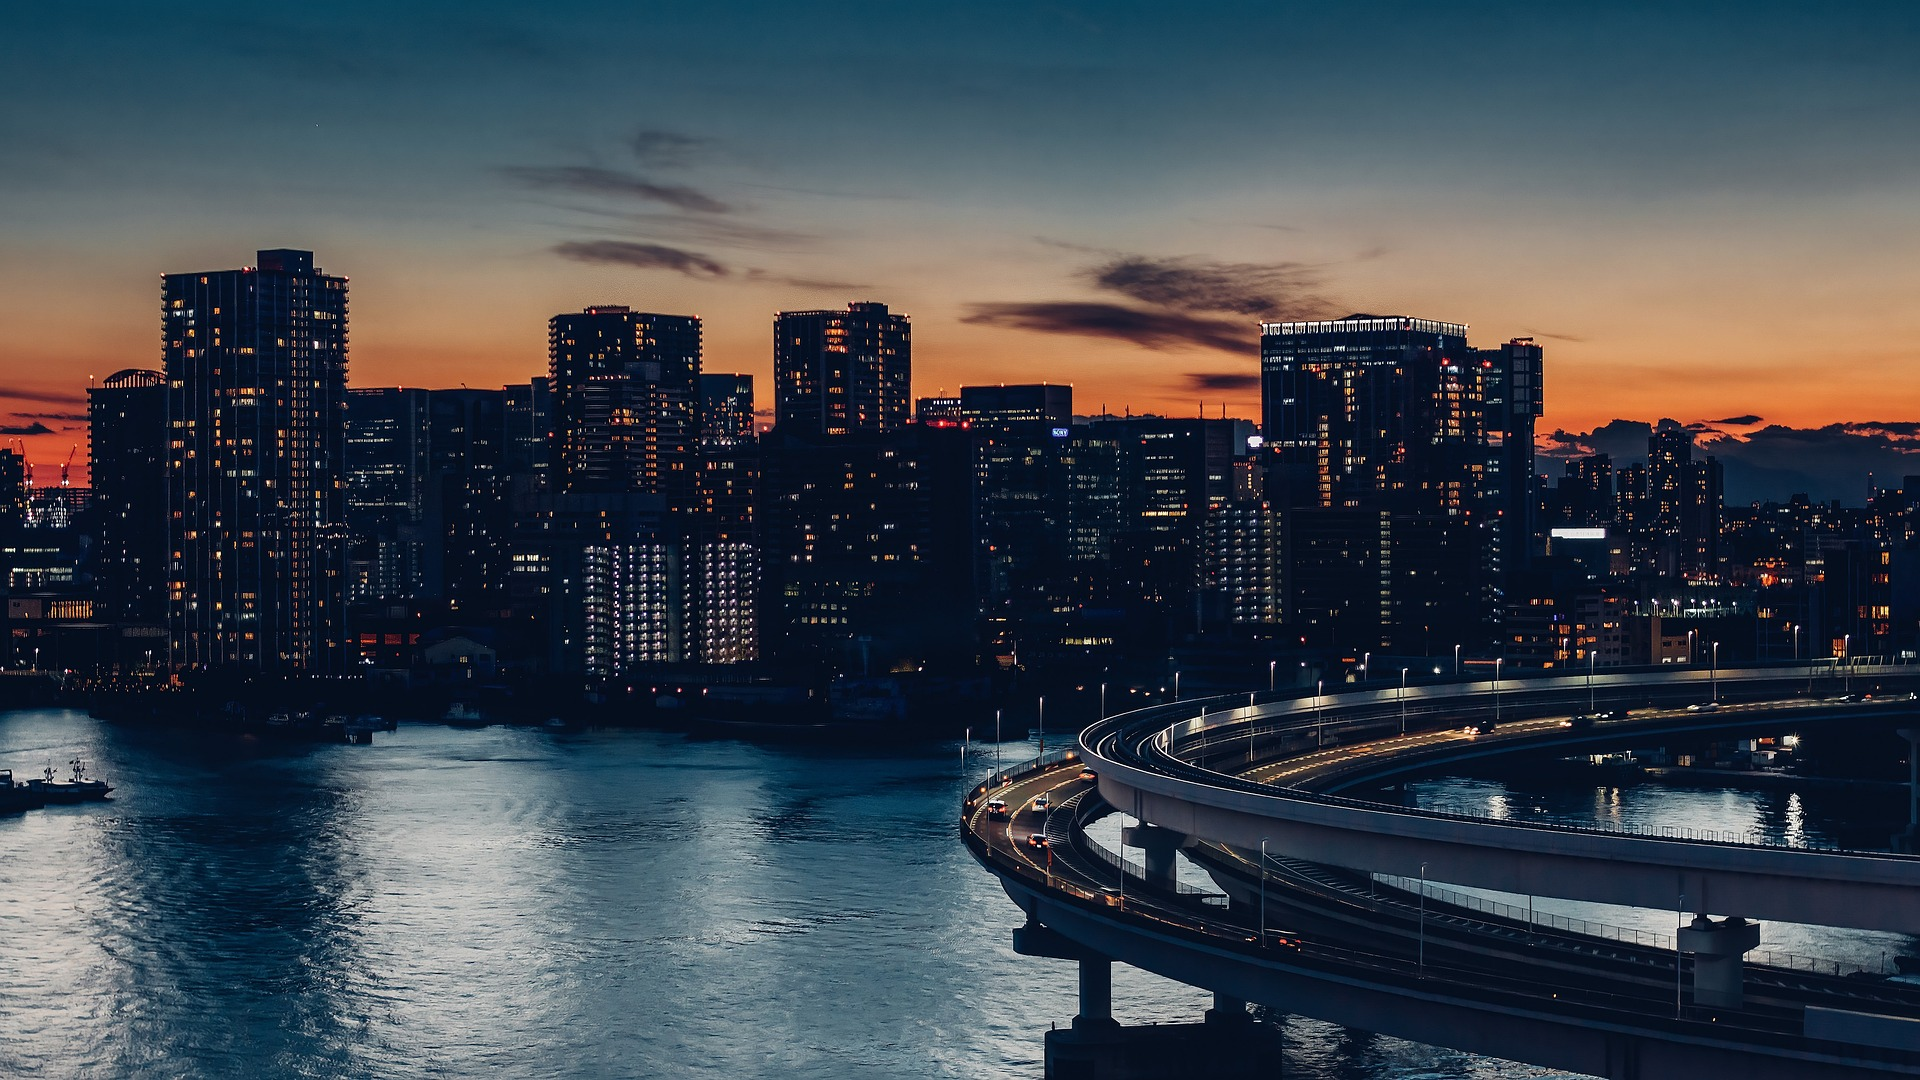
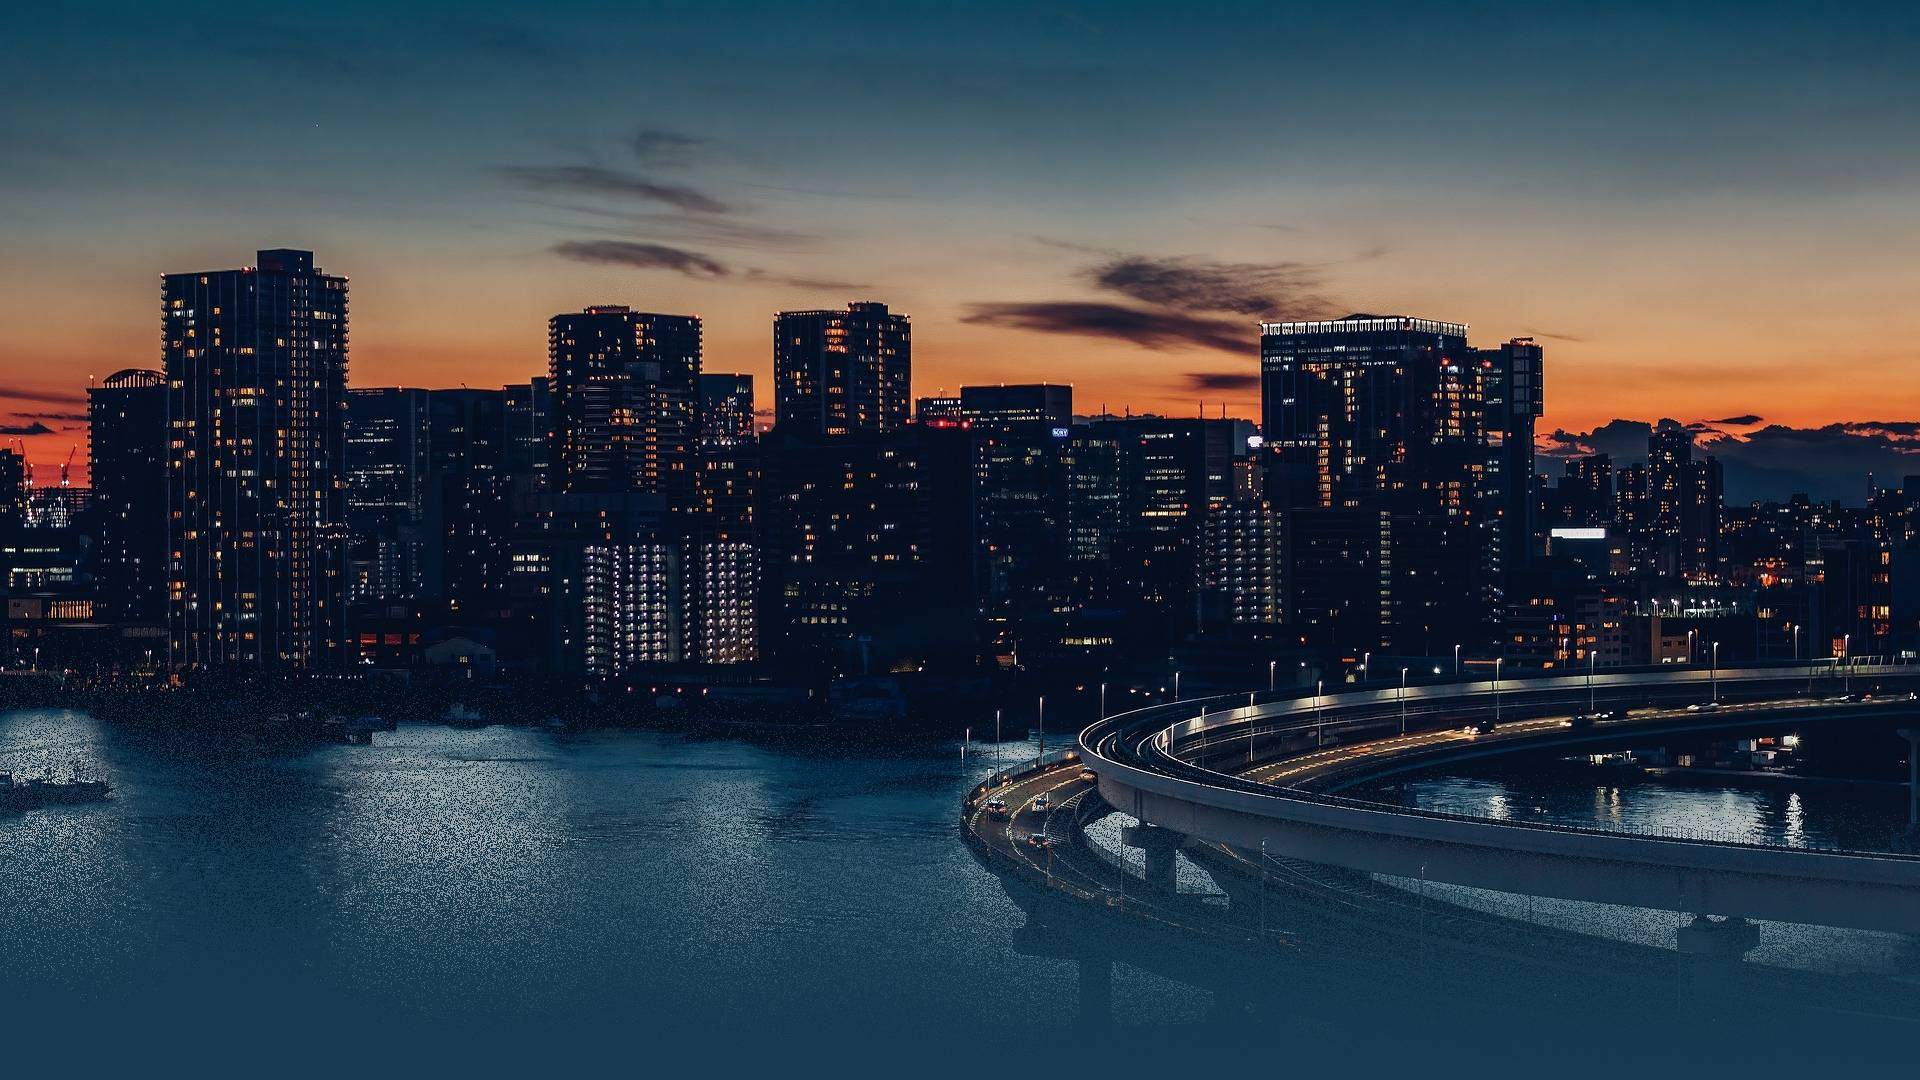
october10

Changed region(s): [[0.0, 0.6417, 1.0, 1.0], [0.8438, 0.7333, 0.9688, 0.7944], [0.75, 0.7333, 0.7812, 0.7639]]

diff --git a/assets/main.css b/assets/main.css
@@ -48,7 +48,7 @@ table {
     box-sizing: border-box;
 }
 body {
-    background-color: #0d080e /*#5E5E5E*/;
+    background-color: #15394f;
     background-image: url("img/tokyo.jpg");
     background-repeat: no-repeat;
     background-size: 100% auto;
